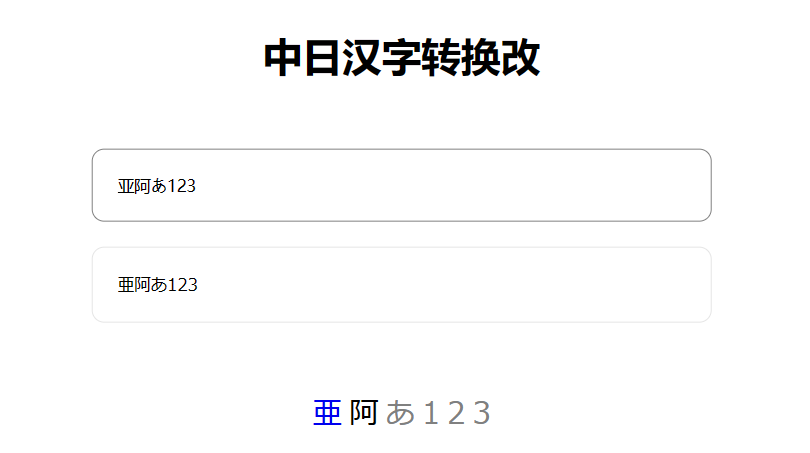
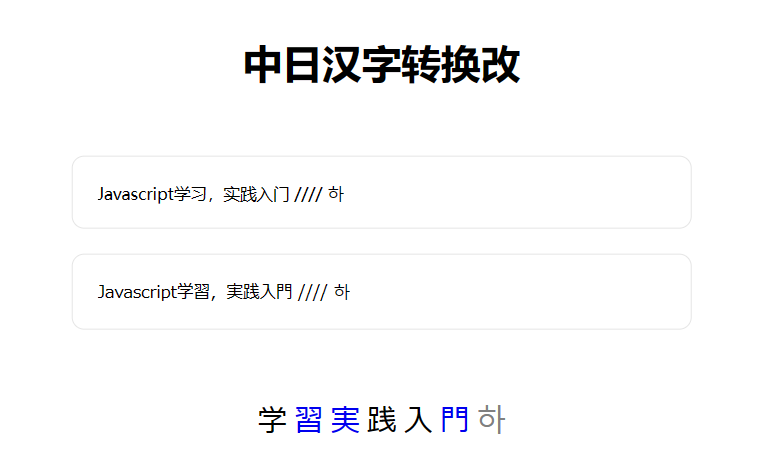
新增自动排除常见非汉字字符功能

diff --git a/loadDictionary.js b/loadDictionary.js
@@ -1,2 +1,3 @@
 window.dictionary = {"亚":["亜"],"爱":["愛"],"恶":["悪"],"苇":["葦"],"压":["圧"],"伟":["偉"],"围":["囲"],"为":["為"],"异":["異"],"维":["維"],"纬":["緯"],"违":["違"],"遗":["遺"],"壹":["壱"],"稻":["稲"],"员":["員"],"饮":["飲"],"阴":["陰"],"隐":["隠"],"韵":["韻"],"涡":["渦"],"运":["運"],"营":["営"],"荣":["栄"],"卫":["衛"],"咏":["詠"],"锐":["鋭"],"驿":["駅"],"谒":["謁"],"阅":["閲"],"园":["園"],"烟":["煙"],"缘":["縁"],"远":["遠"],"铅":["鉛"],"盐":["塩"],"污":["汚"],"应":["応"],"冲":["衝"],"亿":["億"],"忆":["憶"],"稳":["穏"],"假":["仮"],"价":["価"],"祸":["禍"],"华":["華"],"课":["課"],"货":["貨"],"过":["過"],"贺":["賀"],"饿":["餓"],"块":["塊"],"坏":["壊"],"怀":["懐"],"绘":["絵"],"开":["開"],"阶":["階"],"贝":["貝"],"该":["該"],"吓":["嚇"],"扩":["拡"],"壳":["殻"],"确":["確"],"觉":["覚"],"较":["較"],"阁":["閣"],"乐":["楽"],"额":["額"],"挂":["掛"],"舄":["潟"],"渴":["渇"],"辖":["轄"],"劝":["勧"],"卷":["巻"],"唤":["喚"],"奸":["姦"],"宽":["寛"],"惯":["慣"],"换":["換"],"欢":["歓"],"汉":["漢"],"环":["環"],"监":["監"],"简":["簡"],"缓":["緩"],"舰":["艦"],"观":["観"],"贯":["貫"],"还":["還"],"鉴":["鑑"],"间":["間"],"闲":["閑"],"关":["関"],"陷":["陥"],"馆":["館"],"顽":["頑"],"颜":["顔"],"愿":["願"],"几":["幾"],"挥":["揮"],"弃":["棄"],"归":["帰"],"气":["気"],"纪":["紀"],"规":["規"],"记":["記"],"贵":["貴"],"轨":["軌"],"辉":["輝"],"饥":["飢"],"骑":["騎"],"伪":["偽"],"仪":["儀"],"戏":["戯"],"拟":["擬"],"义":["義"],"议":["議"],"诘":["詰"],"宫":["宮"],"穷":["窮"],"级":["級"],"纠":["糾"],"给":["給"],"举":["挙"],"许":["許"],"渔":["漁"],"鱼":["魚"],"竞":["競"],"协":["協"],"强":["強"],"桥":["橋"],"况":["況"],"矫":["矯"],"胁":["脅"],"兴":["興"],"乡":["郷"],"镜":["鏡"],"响":["響"],"惊":["驚"],"晓":["暁"],"业":["業"],"极":["極"],"紧":["緊"],"谨":["謹"],"银":["銀"],"驱":["駆"],"缲":["繰"],"勋":["勲"],"熏":["薫"],"训":["訓"],"军":["軍"],"倾":["傾"],"启":["啓"],"惠":["恵"],"庆":["慶"],"揭":["掲"],"溪":["渓"],"经":["経"],"继":["継"],"萤":["蛍"],"计":["計"],"轻":["軽"],"鸡":["鶏"],"鲸":["鯨"],"剧":["劇"],"击":["撃"],"杰":["傑"],"决":["決"],"洁":["潔"],"结":["結"],"俭":["倹"],"剑":["剣"],"圈":["圏"],"坚":["堅"],"宪":["憲"],"悬":["懸"],"检":["検"],"权":["権"],"绢":["絹"],"见":["見"],"谦":["謙"],"贤":["賢"],"轩":["軒"],"险":["険"],"显":["顕"],"验":["験"],"严":["厳"],"减":["減"],"现":["現"],"个":["個"],"库":["庫"],"户":["戸"],"夸":["誇"],"顾":["顧"],"吴":["呉"],"娱":["娯"],"语":["語"],"误":["誤"],"护":["護"],"效":["効"],"广":["広"],"构":["構"],"沟":["溝"],"红":["紅"],"绞":["絞"],"纲":["綱"],"讲":["講"],"贡":["貢"],"购":["購"],"矿":["鉱"],"钢":["鋼"],"项":["項"],"刚":["剛"],"黑":["黒"],"狱":["獄"],"垦":["墾"],"恳":["懇"],"绀":["紺"],"查":["査"],"诈":["詐"],"锁":["鎖"],"债":["債"],"岁":["歳"],"济":["済"],"灾":["災"],"碎":["砕"],"斋":["斎"],"细":["細"],"载":["載"],"际":["際"],"剂":["剤"],"财":["財"],"错":["錯"],"樱":["桜"],"册":["冊"],"杀":["殺"],"杂":["雑"],"伞":["傘"],"栈":["桟"],"暂":["暫"],"姊":["姉"],"师":["師"],"纟":["糸"],"纸":["紙"],"视":["視"],"词":["詞"],"诗":["詩"],"试":["試"],"咨":["諮"],"资":["資"],"赐":["賜"],"饲":["飼"],"齿":["歯"],"儿":["児"],"时":["時"],"玺":["璽"],"识":["識"],"轴":["軸"],"执":["執"],"质":["質"],"实":["実"],"舍":["舎"],"谢":["謝"],"车":["車"],"释":["釈"],"种":["種"],"树":["樹"],"收":["収"],"终":["終"],"习":["習"],"袭":["襲"],"从":["従"],"涩":["渋"],"兽":["獣"],"纵":["縦"],"铳":["銃"],"缩":["縮"],"肃":["粛"],"术":["術"],"润":["潤"],"纯":["純"],"顺":["順"],"绪":["緒"],"书":["書"],"诸":["諸"],"伤":["傷"],"偿":["償"],"胜":["勝"],"奖":["奨"],"涉":["渉"],"烧":["焼"],"绍":["紹"],"讼":["訟"],"诏":["詔"],"详":["詳"],"赏":["賞"],"钟":["鐘"],"乘":["乗"],"剩":["剰"],"场":["場"],"壤":["壌"],"娘":["嬢"],"净":["浄"],"叠":["畳"],"让":["譲"],"酿":["醸"],"锭":["錠"],"饰":["飾"],"织":["織"],"职":["職"],"审":["審"],"绅":["紳"],"亲":["親"],"诊":["診"],"进":["進"],"针":["針"],"寻":["尋"],"阵":["陣"],"图":["図"],"帅":["帥"],"粹":["粋"],"醉":["酔"],"锤":["錘"],"髓":["髄"],"濑":["瀬"],"亩":["畝"],"势":["勢"],"圣":["聖"],"诚":["誠"],"请":["請"],"齐":["斉"],"积":["積"],"绩":["績"],"责":["責"],"迹":["跡"],"摄":["摂"],"设":["設"],"节":["節"],"绝":["絶"],"专":["専"],"战":["戦"],"缐":["線"],"纤":["繊"],"荐":["薦"],"选":["選"],"迁":["遷"],"钱":["銭"],"铣":["銑"],"鲜":["鮮"],"渐":["漸"],"缮":["繕"],"础":["礎"],"组":["組"],"诉":["訴"],"创":["創"],"仓":["倉"],"丧":["喪"],"层":["層"],"搜":["捜"],"扫":["掃"],"插":["挿"],"巢":["巣"],"窗":["窓"],"总":["総"],"骚":["騒"],"增":["増"],"脏":["臓"],"藏":["蔵"],"赠":["贈"],"侧":["側"],"则":["則"],"测":["測"],"贼":["賊"],"续":["続"],"孙":["孫"],"损":["損"],"驮":["駄"],"对":["対"],"带":["帯"],"态":["態"],"贷":["貸"],"队":["隊"],"题":["題"],"泷":["瀧"],"择":["択"],"泽":["沢","澤"],"浊":["濁"],"诺":["諾"],"达":["達"],"夺":["奪"],"单":["単"],"叹":["嘆"],"诞":["誕"],"锻":["鍛"],"团":["団"],"坛":["壇"],"弹":["弾"],"谈":["談"],"值":["値"],"耻":["恥"],"迟":["遅"],"驻":["駐"],"贮":["貯"],"帐":["帳"],"厅":["庁"],"张":["張"],"惩":["懲"],"听":["聴"],"胀":["脹"],"肠":["腸"],"调":["調"],"长":["長"],"顶":["頂"],"鸟":["鳥"],"敕":["勅"],"赁":["賃"],"镇":["鎮"],"陈":["陳"],"坠":["墜"],"冢":["塚"],"渍":["漬"],"钓":["釣"],"侦":["偵"],"贞":["貞"],"缔":["締"],"订":["訂"],"递":["逓"],"敌":["敵"],"适":["適"],"彻":["徹"],"转":["転"],"传":["伝"],"电":["電"],"涂":["塗"],"冻":["凍"],"岛":["島"],"东":["東"],"栋":["棟"],"汤":["湯"],"统":["統"],"讨":["討"],"誊":["謄"],"头":["頭"],"腾":["騰"],"动":["動","働"],"导":["導"],"铜":["銅"],"德":["徳"],"笃":["篤"],"读":["読"],"昙":["曇"],"钝":["鈍"],"绳":["縄"],"软":["軟"],"难":["難"],"贰":["弐"],"认":["認"],"宁":["寧"],"热":["熱"],"恼":["悩"],"浓":["濃"],"纳":["納"],"脑":["脳"],"农":["農"],"霸":["覇"],"马":["馬"],"废":["廃"],"拜":["拝"],"败":["敗"],"辈":["輩"],"买":["買"],"卖":["売"],"赔":["賠"],"缚":["縛"],"发":["発","髪"],"罚":["罰"],"拔":["抜"],"阀":["閥"],"贩":["販"],"范":["範"],"烦":["煩"],"颁":["頒"],"饭":["飯"],"盘":["盤"],"罢":["罷"],"费":["費"],"飞":["飛"],"备":["備"],"笔":["筆"],"标":["標"],"冰":["氷"],"评":["評"],"贫":["貧"],"宾":["賓"],"频":["頻"],"妇":["婦"],"肤":["膚"],"谱":["譜"],"负":["負"],"赋":["賦"],"风":["風"],"复":["復","複"],"拂":["払"],"佛":["仏"],"喷":["噴"],"坟":["墳"],"愤":["憤"],"奋":["奮"],"纷":["紛"],"氛":["雰"],"闻":["聞"],"币":["幣"],"并":["並"],"闭":["閉"],"别":["別"],"变":["変"],"编":["編"],"边":["辺"],"铺":["鋪"],"步":["歩"],"补":["補"],"穗":["穂"],"报":["報"],"缝":["縫"],"访":["訪"],"饱":["飽"],"纺":["紡"],"谋":["謀"],"贸":["貿"],"仆":["僕"],"扑":["撲"],"每":["毎"],"茧":["繭"],"满":["満"],"脉":["脈"],"务":["務"],"梦":["夢"],"无":["無"],"雾":["霧"],"铭":["銘"],"鸣":["鳴"],"灭":["滅"],"绵":["綿"],"网":["網"],"默":["黙"],"问":["問"],"闷":["悶"],"纹":["紋"],"门":["門"],"约":["約"],"药":["薬"],"译":["訳"],"跃":["躍"],"谕":["諭"],"输":["輸"],"优":["優"],"忧":["憂"],"犹":["猶"],"诱":["誘"],"游":["遊"],"邮":["郵"],"预":["預"],"扬":["揚"],"摇":["揺"],"拥":["擁"],"杨":["楊"],"样":["様"],"窑":["窯"],"谣":["謡"],"阳":["陽"],"养":["養"],"罗":["羅"],"赖":["頼"],"络":["絡"],"栏":["欄"],"滥":["濫"],"览":["覧"],"里":["裏","裡","里"],"离":["離"],"陆":["陸"],"虑":["慮"],"虏":["虜"],"两":["両"],"凉":["涼"],"猎":["猟"],"疗":["療"],"粮":["糧"],"领":["領"],"绿":["緑"],"伦":["倫"],"临":["臨"],"轮":["輪"],"垒":["塁"],"泪":["涙"],"类":["類"],"铃":["鈴"],"灵":["霊"],"丽":["麗"],"龄":["齢"],"历":["暦"],"练":["練"],"连":["連"],"炼":["錬"],"劳":["労"],"录":["録"],"论":["論"],"话":["話"],"贿":["賄"],"绚":["絢"],"绫":["綾"],"谓":["謂"],"荫":["陰","蔭"],"乌":["烏"],"窥":["窺"],"呗":["唄"],"鳗":["鰻"],"闰":["閏"],"饵":["餌"],"婴":["嬰"],"颖":["穎"],"颕":["頴"],"厌":["厭"],"焰":["焔"],"艳":["艶"],"鸳":["鴛"],"于":["於"],"袄":["襖"],"莺":["鴬"],"哗":["嘩"],"卧":["臥"],"驾":["駕"],"凯":["凱"],"盖":["蓋"],"铠":["鎧"],"钩":["鈎"],"划":["劃"],"搅":["撹"],"获":["獲"],"顎":["鰍"],"鲣":["鰹"],"桦":["樺"],"鸭":["鴨"],"涧":["澗"],"韩":["韓"],"赝":["贋"],"龟":["亀"],"牺":["犠"],"蚁":["蟻"],"谊":["誼"],"锯":["鋸"],"侨":["僑"],"乔":["喬"],"荞":["蕎"],"飨":["饗"],"仅":["僅"],"锦":["錦"],"钦":["欽"],"俱":["倶"],"驹":["駒"],"栉":["櫛"],"钏":["釧"],"辔":["轡"],"洼":["窪"],"锹":["鍬"],"诣":["詣"],"诀":["訣"],"牵":["牽"],"砚":["硯"],"县":["県"],"键":["鍵"],"谚":["諺"],"钴":["鈷"],"鲤":["鯉"],"纮":["紘"],"鸿":["鴻"],"轰":["轟"],"鹄":["鵠"],"顷":["頃"],"鹭":["鷺"],"栅":["柵"],"鲑":["鮭"],"萨":["薩"],"鲭":["鯖"],"锖":["錆"],"鲛":["鮫"],"灿":["燦"],"产":["産"],"赞":["賛"],"斩":["斬"],"尸":["屍"],"狮":["獅"],"尔":["爾"],"莳":["蒔"],"缟":["縞"],"纱":["紗"],"锡":["錫"],"肿":["腫"],"绶":["綬"],"众":["衆"],"辑":["輯"],"骏":["駿"],"准":["準","准"],"处":["処"],"锄":["鋤"],"尝":["嘗"],"厂":["廠"],"证":["証"],"酱":["醤"],"钲":["鉦"],"扰":["擾"],"烛":["蝕"],"尘":["塵"],"肾":["腎"],"讯":["訊"],"诹":["諏"],"须":["須"],"锥":["錐"],"趋":["趨"],"雏":["雛"],"颇":["頗"],"栖":["棲","栖"],"硕":["碩"],"说":["説"],"诠":["詮"],"贱":["賎"],"闪":["閃"],"苏":["蘇"],"丛":["叢"],"枪":["槍"],"综":["綜"],"苍":["蒼"],"逊":["遜"],"鲷":["鯛"],"鹰":["鷹"],"托":["託"],"铎":["鐸"],"竖":["竪"],"鳕":["鱈"],"谁":["誰"],"绽":["綻"],"驰":["馳"],"铸":["鋳"],"苎":["苧"],"宠":["寵"],"畅":["暢"],"谍":["諜"],"铫":["銚"],"茑":["蔦"],"缀":["綴"],"溃":["潰"],"壶":["壺"],"鹤":["鶴"],"祯":["禎"],"谛":["諦"],"郑":["鄭"],"钉":["釘"],"镝":["鏑"],"辙":["轍"],"铁":["鉄"],"缠":["纏"],"贴":["貼"],"颠":["顛"],"淀":["澱"],"兔":["兎"],"赌":["賭"],"镀":["鍍"],"荡":["蕩"],"镫":["鐙"],"鸨":["鴇"],"秃":["禿"],"鸢":["鳶"],"吨":["噸"],"顿":["頓"],"谜":["謎"],"滩":["灘"],"锅":["鍋"],"驯":["馴"],"赈":["賑"],"祢":["禰","祢"],"脓":["膿"],"骂":["罵"],"狈":["狽"],"这":["這"],"驳":["駁"],"栌":["櫨"],"钵":["鉢"],"鸠":["鳩"],"绯":["緋"],"诽":["誹"],"毕":["畢"],"纽":["紐"],"谬":["謬"],"庙":["廟"],"锚":["錨"],"鳍":["鰭"],"濒":["瀕"],"抚":["撫"],"芜":["蕪"],"枫":["楓"],"渊":["淵"],"鲋":["鮒"],"粪":["糞"],"页":["頁"],"辅":["輔"],"仿":["倣"],"丰":["豊"],"锋":["鋒"],"凤":["鳳"],"鹏":["鵬"],"颊":["頬"],"鲔":["鮪"],"鳟":["鱒"],"鹉":["鵡"],"缅":["緬"],"储":["儲"],"饼":["餅"],"贳":["貰"],"爷":["爺"],"涌":["湧","涌"],"舆":["輿"],"佣":["傭"],"欲":["欲","慾"],"岚":["嵐"],"蓝":["藍"],"兰":["蘭"],"刘":["劉"],"龙":["竜","龍"],"侣":["侶"],"谅":["諒"],"邻":["隣"],"鳞":["鱗"],"岭":["嶺"],"隶":["隷"],"涟":["漣"],"帘":["簾"],"怜":["怜","憐"],"联":["聯"],"莲":["蓮"],"吕":["呂"],"鲁":["魯"],"橹":["櫓"],"赂":["賂"],"娄":["婁"],"聋":["聾"],"鹫":["鷲"],"鳄":["鰐"],"诧":["詫"],"干":["干","乾"]};
 window.shiftjis1List = ["亜", "唖", "娃", "阿", "哀", "愛", "挨", "姶", "逢", "葵", "茜", "穐", "悪", "握", "渥", "旭", "葦", "芦", "鯵", "梓", "圧", "斡", "扱", "宛", "姐", "虻", "飴", "絢", "綾", "鮎", "或", "粟", "袷", "安", "庵", "按", "暗", "案", "闇", "鞍", "杏", "以", "伊", "位", "依", "偉", "囲", "夷", "委", "威", "尉", "惟", "意", "慰", "易", "椅", "為", "畏", "異", "移", "維", "緯", "胃", "萎", "衣", "謂", "違", "遺", "医", "井", "亥", "域", "育", "郁", "磯", "一", "壱", "溢", "逸", "稲", "茨", "芋", "鰯", "允", "印", "咽", "員", "因", "姻", "引", "飲", "淫", "胤", "蔭", "院", "陰", "隠", "韻", "吋", "右", "宇", "烏", "羽", "迂", "雨", "卯", "鵜", "窺", "丑", "碓", "臼", "渦", "嘘", "唄", "欝", "蔚", "鰻", "姥", "厩", "浦", "瓜", "閏", "噂", "云", "運", "雲", "荏", "餌", "叡", "営", "嬰", "影", "映", "曳", "栄", "永", "泳", "洩", "瑛", "盈", "穎", "頴", "英", "衛", "詠", "鋭", "液", "疫", "益", "駅", "悦", "謁", "越", "閲", "榎", "厭", "円", "園", "堰", "奄", "宴", "延", "怨", "掩", "援", "沿", "演", "炎", "焔", "煙", "燕", "猿", "縁", "艶", "苑", "薗", "遠", "鉛", "鴛", "塩", "於", "汚", "甥", "凹", "央", "奥", "往", "応", "点", "押", "旺", "横", "欧", "殴", "王", "翁", "襖", "鴬", "鴎", "黄", "岡", "沖", "荻", "億", "屋", "憶", "臆", "桶", "牡", "乙", "俺", "卸", "恩", "温", "穏", "音", "下", "化", "仮", "何", "伽", "価", "佳", "加", "可", "嘉", "夏", "嫁", "家", "寡", "科", "暇", "果", "架", "歌", "河", "火", "珂", "禍", "禾", "稼", "箇", "花", "苛", "茄", "荷", "華", "菓", "蝦", "課", "嘩", "貨", "迦", "過", "霞", "蚊", "俄", "峨", "我", "牙", "画", "臥", "芽", "蛾", "賀", "雅", "餓", "駕", "介", "会", "解", "回", "塊", "壊", "廻", "快", "怪", "悔", "恢", "懐", "戒", "拐", "改", "魁", "晦", "械", "海", "灰", "界", "皆", "絵", "芥", "蟹", "開", "階", "貝", "凱", "劾", "外", "咳", "害", "崖", "慨", "概", "涯", "碍", "蓋", "街", "該", "鎧", "骸", "浬", "馨", "蛙", "垣", "柿", "蛎", "鈎", "劃", "嚇", "各", "廓", "拡", "撹", "格", "核", "殻", "獲", "確", "穫", "覚", "角", "赫", "較", "郭", "閣", "隔", "革", "学", "岳", "楽", "額", "顎", "掛", "笠", "樫", "橿", "梶", "鰍", "潟", "割", "喝", "恰", "括", "活", "渇", "滑", "葛", "褐", "轄", "且", "鰹", "叶", "椛", "樺", "鞄", "株", "兜", "竃", "蒲", "釜", "鎌", "噛", "鴨", "栢", "茅", "萱", "粥", "刈", "苅", "瓦", "乾", "侃", "冠", "寒", "刊", "勘", "勧", "巻", "喚", "堪", "姦", "完", "官", "寛", "干", "幹", "患", "感", "慣", "憾", "換", "敢", "柑", "桓", "棺", "款", "歓", "汗", "漢", "澗", "潅", "環", "甘", "監", "看", "竿", "管", "簡", "緩", "缶", "翰", "肝", "艦", "莞", "観", "諌", "貫", "還", "鑑", "間", "閑", "関", "陥", "韓", "館", "舘", "丸", "含", "岸", "巌", "玩", "癌", "眼", "岩", "翫", "贋", "雁", "頑", "顔", "願", "企", "伎", "危", "喜", "器", "基", "奇", "嬉", "寄", "岐", "希", "幾", "忌", "揮", "机", "旗", "既", "期", "棋", "棄", "機", "帰", "毅", "気", "汽", "畿", "祈", "季", "稀", "紀", "徽", "規", "記", "貴", "起", "軌", "輝", "飢", "騎", "鬼", "亀", "偽", "儀", "妓", "宜", "戯", "技", "擬", "欺", "犠", "疑", "祇", "義", "蟻", "誼", "議", "掬", "菊", "鞠", "吉", "吃", "喫", "桔", "橘", "詰", "砧", "杵", "黍", "却", "客", "脚", "虐", "逆", "丘", "久", "仇", "休", "及", "吸", "宮", "弓", "急", "救", "朽", "求", "汲", "泣", "灸", "球", "究", "窮", "笈", "級", "糾", "給", "旧", "牛", "去", "居", "巨", "拒", "拠", "挙", "渠", "虚", "許", "距", "鋸", "漁", "禦", "魚", "亨", "享", "京", "供", "侠", "僑", "兇", "競", "共", "凶", "協", "匡", "卿", "叫", "喬", "境", "峡", "強", "彊", "怯", "恐", "恭", "挟", "教", "橋", "況", "狂", "狭", "矯", "胸", "脅", "興", "蕎", "郷", "鏡", "響", "饗", "驚", "仰", "凝", "尭", "暁", "業", "局", "曲", "極", "玉", "桐", "粁", "僅", "勤", "均", "巾", "錦", "斤", "欣", "欽", "琴", "禁", "禽", "筋", "緊", "芹", "菌", "衿", "襟", "謹", "近", "金", "吟", "銀", "九", "倶", "句", "区", "狗", "玖", "矩", "苦", "躯", "駆", "駈", "駒", "具", "愚", "虞", "喰", "空", "偶", "寓", "遇", "隅", "串", "櫛", "釧", "屑", "屈", "掘", "窟", "沓", "靴", "轡", "窪", "熊", "隈", "粂", "栗", "繰", "桑", "鍬", "勲", "君", "薫", "訓", "群", "軍", "郡", "卦", "袈", "祁", "係", "傾", "刑", "兄", "啓", "圭", "珪", "型", "契", "形", "径", "恵", "慶", "慧", "憩", "掲", "携", "敬", "景", "桂", "渓", "畦", "稽", "系", "経", "継", "繋", "罫", "茎", "荊", "蛍", "計", "詣", "警", "軽", "頚", "鶏", "芸", "迎", "鯨", "劇", "戟", "撃", "激", "隙", "桁", "傑", "欠", "決", "潔", "穴", "結", "血", "訣", "月", "件", "倹", "倦", "健", "兼", "券", "剣", "喧", "圏", "堅", "嫌", "建", "憲", "懸", "拳", "捲", "検", "権", "牽", "犬", "献", "研", "硯", "絹", "県", "肩", "見", "謙", "賢", "軒", "遣", "鍵", "険", "顕", "験", "鹸", "元", "原", "厳", "幻", "弦", "減", "源", "玄", "現", "絃", "舷", "言", "諺", "限", "乎", "個", "古", "呼", "固", "姑", "孤", "己", "庫", "弧", "戸", "故", "枯", "湖", "狐", "糊", "袴", "股", "胡", "菰", "虎", "誇", "跨", "鈷", "雇", "顧", "鼓", "五", "互", "伍", "午", "呉", "吾", "娯", "後", "御", "悟", "梧", "檎", "瑚", "碁", "語", "誤", "護", "醐", "乞", "鯉", "交", "佼", "侯", "候", "倖", "光", "公", "功", "効", "勾", "厚", "口", "向", "后", "喉", "坑", "垢", "好", "孔", "孝", "宏", "工", "巧", "巷", "幸", "広", "庚", "康", "弘", "恒", "慌", "抗", "拘", "控", "攻", "昂", "晃", "更", "杭", "校", "梗", "構", "江", "洪", "浩", "港", "溝", "甲", "皇", "硬", "稿", "糠", "紅", "紘", "絞", "綱", "耕", "考", "肯", "肱", "腔", "膏", "航", "荒", "行", "衡", "講", "貢", "購", "郊", "酵", "鉱", "砿", "鋼", "閤", "降", "項", "香", "高", "鴻", "剛", "劫", "号", "合", "壕", "拷", "濠", "豪", "轟", "麹", "克", "刻", "告", "国", "穀", "酷", "鵠", "黒", "獄", "漉", "腰", "甑", "忽", "惚", "骨", "狛", "込", "此", "頃", "今", "困", "坤", "墾", "婚", "恨", "懇", "昏", "昆", "根", "梱", "混", "痕", "紺", "艮", "魂", "些", "佐", "叉", "唆", "嵯", "左", "差", "査", "沙", "瑳", "砂", "詐", "鎖", "裟", "坐", "座", "挫", "債", "催", "再", "最", "哉", "塞", "妻", "宰", "彩", "才", "採", "栽", "歳", "済", "災", "采", "犀", "砕", "砦", "祭", "斎", "細", "菜", "裁", "載", "際", "剤", "在", "材", "罪", "財", "冴", "坂", "阪", "堺", "榊", "肴", "咲", "崎", "埼", "碕", "鷺", "作", "削", "咋", "搾", "昨", "朔", "柵", "窄", "策", "索", "錯", "桜", "鮭", "笹", "匙", "冊", "刷", "察", "拶", "撮", "擦", "札", "殺", "薩", "雑", "皐", "鯖", "捌", "錆", "鮫", "皿", "晒", "三", "傘", "参", "山", "惨", "撒", "散", "桟", "燦", "珊", "産", "算", "纂", "蚕", "讃", "賛", "酸", "餐", "斬", "暫", "残", "仕", "仔", "伺", "使", "刺", "司", "史", "嗣", "四", "士", "始", "姉", "姿", "子", "屍", "市", "師", "志", "思", "指", "支", "孜", "斯", "施", "旨", "枝", "止", "死", "氏", "獅", "祉", "私", "糸", "紙", "紫", "肢", "脂", "至", "視", "詞", "詩", "試", "誌", "諮", "資", "賜", "雌", "飼", "歯", "事", "似", "侍", "児", "字", "寺", "慈", "持", "時", "次", "滋", "治", "爾", "璽", "痔", "磁", "示", "而", "耳", "自", "蒔", "辞", "汐", "鹿", "式", "識", "鴫", "竺", "軸", "宍", "雫", "七", "叱", "執", "失", "嫉", "室", "悉", "湿", "漆", "疾", "質", "実", "蔀", "篠", "偲", "柴", "芝", "屡", "蕊", "縞", "舎", "写", "射", "捨", "赦", "斜", "煮", "社", "紗", "者", "謝", "車", "遮", "蛇", "邪", "借", "勺", "尺", "杓", "灼", "爵", "酌", "釈", "錫", "若", "寂", "弱", "惹", "主", "取", "守", "手", "朱", "殊", "狩", "珠", "種", "腫", "趣", "酒", "首", "儒", "受", "呪", "寿", "授", "樹", "綬", "需", "囚", "収", "周", "宗", "就", "州", "修", "愁", "拾", "洲", "秀", "秋", "終", "繍", "習", "臭", "舟", "蒐", "衆", "襲", "讐", "蹴", "輯", "週", "酋", "酬", "集", "醜", "什", "住", "充", "十", "従", "戎", "柔", "汁", "渋", "獣", "縦", "重", "銃", "叔", "夙", "宿", "淑", "祝", "縮", "粛", "塾", "熟", "出", "術", "述", "俊", "峻", "春", "瞬", "竣", "舜", "駿", "准", "循", "旬", "楯", "殉", "淳", "準", "潤", "盾", "純", "巡", "遵", "醇", "順", "処", "初", "所", "暑", "曙", "渚", "庶", "緒", "署", "書", "薯", "藷", "諸", "助", "叙", "女", "序", "徐", "恕", "鋤", "除", "傷", "償", "勝", "匠", "升", "召", "哨", "商", "唱", "嘗", "奨", "妾", "娼", "宵", "将", "小", "少", "尚", "庄", "床", "廠", "彰", "承", "抄", "招", "掌", "捷", "昇", "昌", "昭", "晶", "松", "梢", "樟", "樵", "沼", "消", "渉", "湘", "焼", "焦", "照", "症", "省", "硝", "礁", "祥", "称", "章", "笑", "粧", "紹", "肖", "菖", "蒋", "蕉", "衝", "裳", "訟", "証", "詔", "詳", "象", "賞", "醤", "鉦", "鍾", "鐘", "障", "鞘", "上", "丈", "丞", "乗", "冗", "剰", "城", "場", "壌", "嬢", "常", "情", "擾", "条", "杖", "浄", "状", "畳", "穣", "蒸", "譲", "醸", "錠", "嘱", "埴", "飾", "拭", "植", "殖", "燭", "織", "職", "色", "触", "食", "蝕", "辱", "尻", "伸", "信", "侵", "唇", "娠", "寝", "審", "心", "慎", "振", "新", "晋", "森", "榛", "浸", "深", "申", "疹", "真", "神", "秦", "紳", "臣", "芯", "薪", "親", "診", "身", "辛", "進", "針", "震", "人", "仁", "刃", "塵", "壬", "尋", "甚", "尽", "腎", "訊", "迅", "陣", "靭", "笥", "諏", "須", "酢", "図", "厨", "逗", "吹", "垂", "帥", "推", "水", "炊", "睡", "粋", "翠", "衰", "遂", "酔", "錐", "錘", "随", "瑞", "髄", "崇", "嵩", "数", "枢", "趨", "雛", "据", "杉", "椙", "菅", "頗", "雀", "裾", "澄", "摺", "寸", "世", "瀬", "畝", "是", "凄", "制", "勢", "姓", "征", "性", "成", "政", "整", "星", "晴", "棲", "栖", "正", "清", "牲", "生", "盛", "精", "聖", "声", "製", "西", "誠", "誓", "請", "逝", "醒", "青", "静", "斉", "税", "脆", "隻", "席", "惜", "戚", "斥", "昔", "析", "石", "積", "籍", "績", "脊", "責", "赤", "跡", "蹟", "碩", "切", "拙", "接", "摂", "折", "設", "窃", "節", "説", "雪", "絶", "舌", "蝉", "仙", "先", "千", "占", "宣", "専", "尖", "川", "戦", "扇", "撰", "栓", "栴", "泉", "浅", "洗", "染", "潜", "煎", "煽", "旋", "穿", "箭", "線", "繊", "羨", "腺", "舛", "船", "薦", "詮", "賎", "践", "選", "遷", "銭", "銑", "閃", "鮮", "前", "善", "漸", "然", "全", "禅", "繕", "膳", "糎", "噌", "塑", "岨", "措", "曾", "曽", "楚", "狙", "疏", "疎", "礎", "祖", "租", "粗", "素", "組", "蘇", "訴", "阻", "遡", "鼠", "僧", "創", "双", "叢", "倉", "喪", "壮", "奏", "爽", "宋", "層", "匝", "惣", "想", "捜", "掃", "挿", "掻", "操", "早", "曹", "巣", "槍", "槽", "漕", "燥", "争", "痩", "相", "窓", "糟", "総", "綜", "聡", "草", "荘", "葬", "蒼", "藻", "装", "走", "送", "遭", "鎗", "霜", "騒", "像", "増", "憎", "臓", "蔵", "贈", "造", "促", "側", "則", "即", "息", "捉", "束", "測", "足", "速", "俗", "属", "賊", "族", "続", "卒", "袖", "其", "揃", "存", "孫", "尊", "損", "村", "遜", "他", "多", "太", "汰", "詑", "唾", "堕", "妥", "惰", "打", "柁", "舵", "楕", "陀", "駄", "騨", "体", "堆", "対", "耐", "岱", "帯", "待", "怠", "態", "戴", "替", "泰", "滞", "胎", "腿", "苔", "袋", "貸", "退", "逮", "隊", "黛", "鯛", "代", "台", "大", "第", "醍", "題", "鷹", "滝", "瀧", "卓", "啄", "宅", "托", "択", "拓", "沢", "濯", "琢", "託", "鐸", "濁", "諾", "茸", "凧", "蛸", "只", "叩", "但", "達", "辰", "奪", "脱", "巽", "竪", "辿", "棚", "谷", "狸", "鱈", "樽", "誰", "丹", "単", "嘆", "坦", "担", "探", "旦", "歎", "淡", "湛", "炭", "短", "端", "箪", "綻", "耽", "胆", "蛋", "誕", "鍛", "団", "壇", "弾", "断", "暖", "檀", "段", "男", "談", "値", "知", "地", "弛", "恥", "智", "池", "痴", "稚", "置", "致", "蜘", "遅", "馳", "築", "畜", "竹", "筑", "蓄", "逐", "秩", "窒", "茶", "嫡", "着", "中", "仲", "宙", "忠", "抽", "昼", "柱", "注", "虫", "衷", "註", "酎", "鋳", "駐", "樗", "瀦", "猪", "苧", "著", "貯", "丁", "兆", "凋", "喋", "寵", "帖", "帳", "庁", "弔", "張", "彫", "徴", "懲", "挑", "暢", "朝", "潮", "牒", "町", "眺", "聴", "脹", "腸", "蝶", "調", "諜", "超", "跳", "銚", "長", "頂", "鳥", "勅", "捗", "直", "朕", "沈", "珍", "賃", "鎮", "陳", "津", "墜", "椎", "槌", "追", "鎚", "痛", "通", "塚", "栂", "掴", "槻", "佃", "漬", "柘", "辻", "蔦", "綴", "鍔", "椿", "潰", "坪", "壷", "嬬", "紬", "爪", "吊", "釣", "鶴", "亭", "低", "停", "偵", "剃", "貞", "呈", "堤", "定", "帝", "底", "庭", "廷", "弟", "悌", "抵", "挺", "提", "梯", "汀", "碇", "禎", "程", "締", "艇", "訂", "諦", "蹄", "逓", "邸", "鄭", "釘", "鼎", "泥", "摘", "擢", "敵", "滴", "的", "笛", "適", "鏑", "溺", "哲", "徹", "撤", "轍", "迭", "鉄", "典", "填", "天", "展", "店", "添", "纏", "甜", "貼", "転", "顛", "伝", "殿", "澱", "田", "電", "兎", "吐", "堵", "塗", "妬", "屠", "徒", "斗", "杜", "渡", "登", "菟", "賭", "途", "都", "鍍", "砥", "砺", "努", "度", "土", "奴", "怒", "倒", "党", "冬", "凍", "刀", "唐", "塔", "塘", "套", "宕", "島", "嶋", "悼", "投", "搭", "東", "桃", "梼", "棟", "盗", "淘", "湯", "涛", "灯", "燈", "当", "痘", "祷", "等", "答", "筒", "糖", "統", "到", "董", "蕩", "藤", "討", "謄", "豆", "踏", "逃", "透", "鐙", "陶", "頭", "騰", "闘", "働", "動", "同", "堂", "導", "憧", "撞", "洞", "瞳", "童", "胴", "萄", "道", "銅", "峠", "鴇", "匿", "得", "徳", "涜", "特", "督", "禿", "篤", "毒", "独", "読", "栃", "橡", "凸", "突", "椴", "届", "鳶", "苫", "寅", "酉", "瀞", "噸", "屯", "惇", "敦", "沌", "豚", "遁", "頓", "呑", "曇", "鈍", "奈", "那", "内", "乍", "凪", "薙", "謎", "灘", "捺", "鍋", "楢", "馴", "縄", "畷", "南", "楠", "軟", "難", "汝", "二", "尼", "弐", "迩", "匂", "賑", "肉", "虹", "廿", "日", "乳", "入", "如", "尿", "韮", "任", "妊", "忍", "認", "濡", "禰", "祢", "寧", "葱", "猫", "熱", "年", "念", "捻", "撚", "燃", "粘", "乃", "廼", "之", "埜", "嚢", "悩", "濃", "納", "能", "脳", "膿", "農", "覗", "蚤", "巴", "把", "播", "覇", "杷", "波", "派", "琶", "破", "婆", "罵", "芭", "馬", "俳", "廃", "拝", "排", "敗", "杯", "盃", "牌", "背", "肺", "輩", "配", "倍", "培", "媒", "梅", "楳", "煤", "狽", "買", "売", "賠", "陪", "這", "蝿", "秤", "矧", "萩", "伯", "剥", "博", "拍", "柏", "泊", "白", "箔", "粕", "舶", "薄", "迫", "曝", "漠", "爆", "縛", "莫", "駁", "麦", "函", "箱", "硲", "箸", "肇", "筈", "櫨", "幡", "肌", "畑", "畠", "八", "鉢", "溌", "発", "醗", "髪", "伐", "罰", "抜", "筏", "閥", "鳩", "噺", "塙", "蛤", "隼", "伴", "判", "半", "反", "叛", "帆", "搬", "斑", "板", "氾", "汎", "版", "犯", "班", "畔", "繁", "般", "藩", "販", "範", "釆", "煩", "頒", "飯", "挽", "晩", "番", "盤", "磐", "蕃", "蛮", "匪", "卑", "否", "妃", "庇", "彼", "悲", "扉", "批", "披", "斐", "比", "泌", "疲", "皮", "碑", "秘", "緋", "罷", "肥", "被", "誹", "費", "避", "非", "飛", "樋", "簸", "備", "尾", "微", "枇", "毘", "琵", "眉", "美", "鼻", "柊", "稗", "匹", "疋", "髭", "彦", "膝", "菱", "肘", "弼", "必", "畢", "筆", "逼", "桧", "姫", "媛", "紐", "百", "謬", "俵", "彪", "標", "氷", "漂", "瓢", "票", "表", "評", "豹", "廟", "描", "病", "秒", "苗", "錨", "鋲", "蒜", "蛭", "鰭", "品", "彬", "斌", "浜", "瀕", "貧", "賓", "頻", "敏", "瓶", "不", "付", "埠", "夫", "婦", "富", "冨", "布", "府", "怖", "扶", "敷", "斧", "普", "浮", "父", "符", "腐", "膚", "芙", "譜", "負", "賦", "赴", "阜", "附", "侮", "撫", "武", "舞", "葡", "蕪", "部", "封", "楓", "風", "葺", "蕗", "伏", "副", "復", "幅", "服", "福", "腹", "複", "覆", "淵", "弗", "払", "沸", "仏", "物", "鮒", "分", "吻", "噴", "墳", "憤", "扮", "焚", "奮", "粉", "糞", "紛", "雰", "文", "聞", "丙", "併", "兵", "塀", "幣", "平", "弊", "柄", "並", "蔽", "閉", "陛", "米", "頁", "僻", "壁", "癖", "碧", "別", "瞥", "蔑", "箆", "偏", "変", "片", "篇", "編", "辺", "返", "遍", "便", "勉", "娩", "弁", "鞭", "保", "舗", "鋪", "圃", "捕", "歩", "甫", "補", "輔", "穂", "募", "墓", "慕", "戊", "暮", "母", "簿", "菩", "倣", "俸", "包", "呆", "報", "奉", "宝", "峰", "峯", "崩", "庖", "抱", "捧", "放", "方", "朋", "法", "泡", "烹", "砲", "縫", "胞", "芳", "萌", "蓬", "蜂", "褒", "訪", "豊", "邦", "鋒", "飽", "鳳", "鵬", "乏", "亡", "傍", "剖", "坊", "妨", "帽", "忘", "忙", "房", "暴", "望", "某", "棒", "冒", "紡", "肪", "膨", "謀", "貌", "貿", "鉾", "防", "吠", "頬", "北", "僕", "卜", "墨", "撲", "朴", "牧", "睦", "穆", "釦", "勃", "没", "殆", "堀", "幌", "奔", "本", "翻", "凡", "盆", "摩", "磨", "魔", "麻", "埋", "妹", "昧", "枚", "毎", "哩", "槙", "幕", "膜", "枕", "鮪", "柾", "鱒", "桝", "亦", "俣", "又", "抹", "末", "沫", "迄", "侭", "繭", "麿", "万", "慢", "満", "漫", "蔓", "味", "未", "魅", "巳", "箕", "岬", "密", "蜜", "湊", "蓑", "稔", "脈", "妙", "粍", "民", "眠", "務", "夢", "無", "牟", "矛", "霧", "鵡", "椋", "婿", "娘", "冥", "名", "命", "明", "盟", "迷", "銘", "鳴", "姪", "牝", "滅", "免", "棉", "綿", "緬", "面", "麺", "摸", "模", "茂", "妄", "孟", "毛", "猛", "盲", "網", "耗", "蒙", "儲", "木", "黙", "目", "杢", "勿", "餅", "尤", "戻", "籾", "貰", "問", "悶", "紋", "門", "匁", "也", "冶", "夜", "爺", "耶", "野", "弥", "矢", "厄", "役", "約", "薬", "訳", "躍", "靖", "柳", "薮", "鑓", "愉", "愈", "油", "癒", "諭", "輸", "唯", "佑", "優", "勇", "友", "宥", "幽", "悠", "憂", "揖", "有", "柚", "湧", "涌", "猶", "猷", "由", "祐", "裕", "誘", "遊", "邑", "郵", "雄", "融", "夕", "予", "余", "与", "誉", "輿", "預", "傭", "幼", "妖", "容", "庸", "揚", "揺", "擁", "曜", "楊", "様", "洋", "溶", "熔", "用", "窯", "羊", "耀", "葉", "蓉", "要", "謡", "踊", "遥", "陽", "養", "慾", "抑", "欲", "沃", "浴", "翌", "翼", "淀", "羅", "螺", "裸", "来", "莱", "頼", "雷", "洛", "絡", "落", "酪", "乱", "卵", "嵐", "欄", "濫", "藍", "蘭", "覧", "利", "吏", "履", "李", "梨", "理", "璃", "痢", "裏", "裡", "里", "離", "陸", "律", "率", "立", "葎", "掠", "略", "劉", "流", "溜", "琉", "留", "硫", "粒", "隆", "竜", "龍", "侶", "慮", "旅", "虜", "了", "亮", "僚", "両", "凌", "寮", "料", "梁", "涼", "猟", "療", "瞭", "稜", "糧", "良", "諒", "遼", "量", "陵", "領", "力", "緑", "倫", "厘", "林", "淋", "燐", "琳", "臨", "輪", "隣", "鱗", "麟", "瑠", "塁", "涙", "累", "類", "令", "伶", "例", "冷", "励", "嶺", "怜", "玲", "礼", "苓", "鈴", "隷", "零", "霊", "麗", "齢", "暦", "歴", "列", "劣", "烈", "裂", "廉", "恋", "憐", "漣", "煉", "簾", "練", "聯", "蓮", "連", "錬", "呂", "魯", "櫓", "炉", "賂", "路", "露", "労", "婁", "廊", "弄", "朗", "楼", "榔", "浪", "漏", "牢", "狼", "篭", "老", "聾", "蝋", "郎", "六", "麓", "禄", "肋", "録", "論", "倭", "和", "話", "歪", "賄", "脇", "惑", "枠", "鷲", "亙", "亘", "鰐", "詫", "藁", "蕨", "椀", "湾", "碗", "腕"];
+window.invalidCharacter = ["ぁ", "あ", "ぃ", "い", "ぅ", "う", "ぇ", "え", "ぉ", "お", "か", "が", "き", "ぎ", "く", "ぐ", "け", "げ", "こ", "ご", "さ", "ざ", "し", "じ", "す", "ず", "せ", "ぜ", "そ", "ぞ", "た", "だ", "ち", "ぢ", "っ", "つ", "づ", "て", "で", "と", "ど", "な", "に", "ぬ", "ね", "の", "は", "ば", "ぱ", "ひ", "び", "ぴ", "ふ", "ぶ", "ぷ", "へ", "べ", "ぺ", "ほ", "ぼ", "ぽ", "ま", "み", "む", "め", "も", "ゃ", "や", "ゅ", "ゆ", "ょ", "よ", "ら", "り", "る", "れ", "ろ", "ゎ", "わ", "ゐ", "ゑ", "を", "ん", "ゔ", "ゕ", "ゖ", "ァ", "ア", "ィ", "イ", "ゥ", "ウ", "ェ", "エ", "ォ", "オ", "カ", "ガ", "キ", "ギ", "ク", "グ", "ケ", "ゲ", "コ", "ゴ", "サ", "ザ", "シ", "ジ", "ス", "ズ", "セ", "ゼ", "ソ", "ゾ", "タ", "ダ", "チ", "ヂ", "ッ", "ツ", "ヅ", "テ", "デ", "ト", "ド", "ナ", "ニ", "ヌ", "ネ", "ノ", "ハ", "バ", "パ", "ヒ", "ビ", "ピ", "フ", "ブ", "プ", "ヘ", "ベ", "ペ", "ホ", "ボ", "ポ", "マ", "ミ", "ム", "メ", "モ", "ャ", "ヤ", "ュ", "ユ", "ョ", "ヨ", "ラ", "リ", "ル", "レ", "ロ", "ヮ", "ワ", "ヰ", "ヱ", "ヲ", "ン", "ヴ", "ヵ", "ヶ", "ヷ", "ヸ", "ヹ", "ヺ", "・", "ー", "ヽ", "ヾ", "ヿ", "゠", "ㇰ", "ㇱ", "ㇲ", "ㇳ", "ㇴ", "ㇵ", "ㇶ", "ㇷ", "ㇸ", "ㇹ", "ㇺ", "ㇻ", "ㇼ", "ㇽ", "ㇾ", "ㇿ",'A', 'B', 'C', 'D', 'E', 'F', 'G', 'H', 'I', 'J', 'K', 'L', 'M','N', 'O', 'P', 'Q', 'R', 'S', 'T', 'U', 'V', 'W', 'X', 'Y', 'Z','a', 'b', 'c', 'd', 'e', 'f', 'g', 'h', 'i', 'j', 'k', 'l', 'm','n', 'o', 'p', 'q', 'r', 's', 't', 'u', 'v', 'w', 'x', 'y', 'z','0', '1', '2', '3', '4', '5', '6', '7', '8', '9', '!', '@', '#','$', '%', '^', '&', '*', '(', ')', '-', '_', '=', '+', '[', ']','{', '}', '|', ';', ':', "'", '"', ',', '.', '<', '>', '/', '?','`', '~','。', '、', '！', '？', '・', '「', '」', '『', '』', '【', '】', '（', '）','《', '》', '〈', '〉', '…', '—', '～', 'ー', '‥', '：', '；', '’', '‘','”', '“', '〝', '〟', '．', '，', '・', '·', '！', '？', '〜', '‥', '＿','※', '＆', '＊', '＄', '＃', '＠', '％', '＋', '－', '／', '＼', '＝', '＾','＾', '＼', '｜', '｀', '￣', '￣']

diff --git a/index.html b/index.html
@@ -38,7 +38,10 @@
             var words = window.cinput.value.split('')
             var hexList = new Array();
             for (i = 0; i < words.length; i++) {
-                if (window.shiftjis1List.indexOf(words[i]) > -1) {
+                if (window.invalidCharacter.indexOf(words[i]) > -1) {
+                    // 无效字符，跳过处理
+                }
+                else if (window.shiftjis1List.indexOf(words[i]) > -1) {
                     // 已存在shiftjis第一梯队的汉字
                     // 黑色汉字
                     if (window.dictionary[words[i]] && window.dictionary[words[i]].length > 1) {

diff --git a/README.md b/README.md
@@ -22,7 +22,9 @@
 
 转换后的文字在汉字列表中会显示三种颜色：`蓝色 / 黑色 / 灰色`
 
-![1689748102512](image/README/1689748102512.png) 
+汉字列表会自动排除常见的非汉字字符。
+
+![1689748102512](image/README/1689748102512.png)
 
 `蓝色` ：成功在shift-jis第一梯队中找到了对应的日文汉字并翻译。
 
